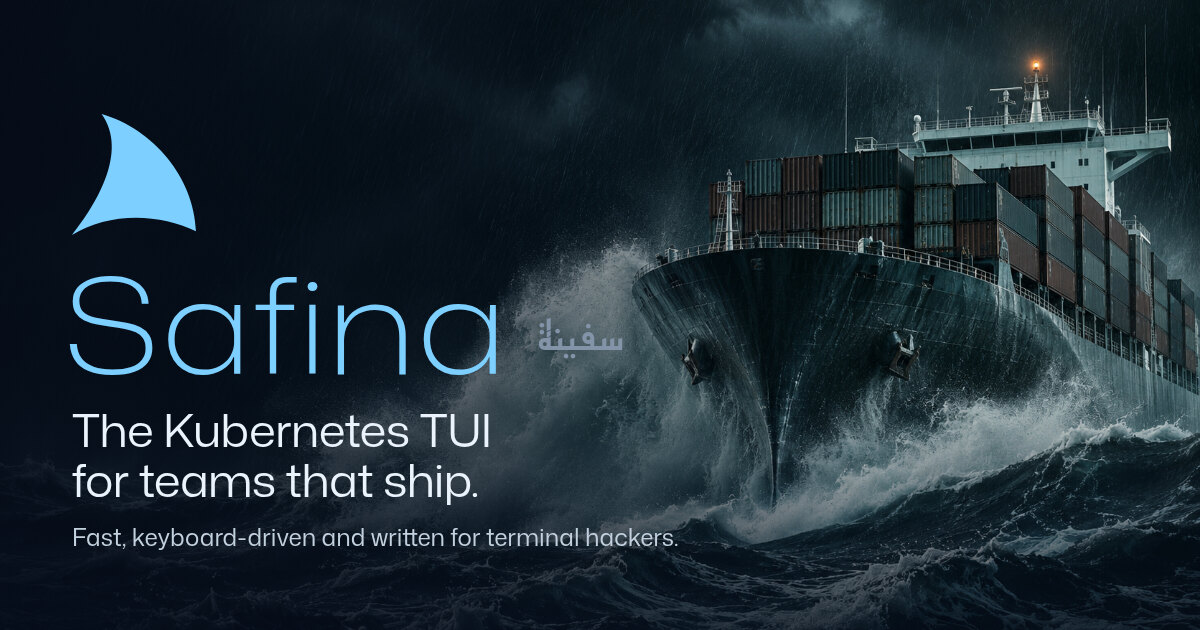
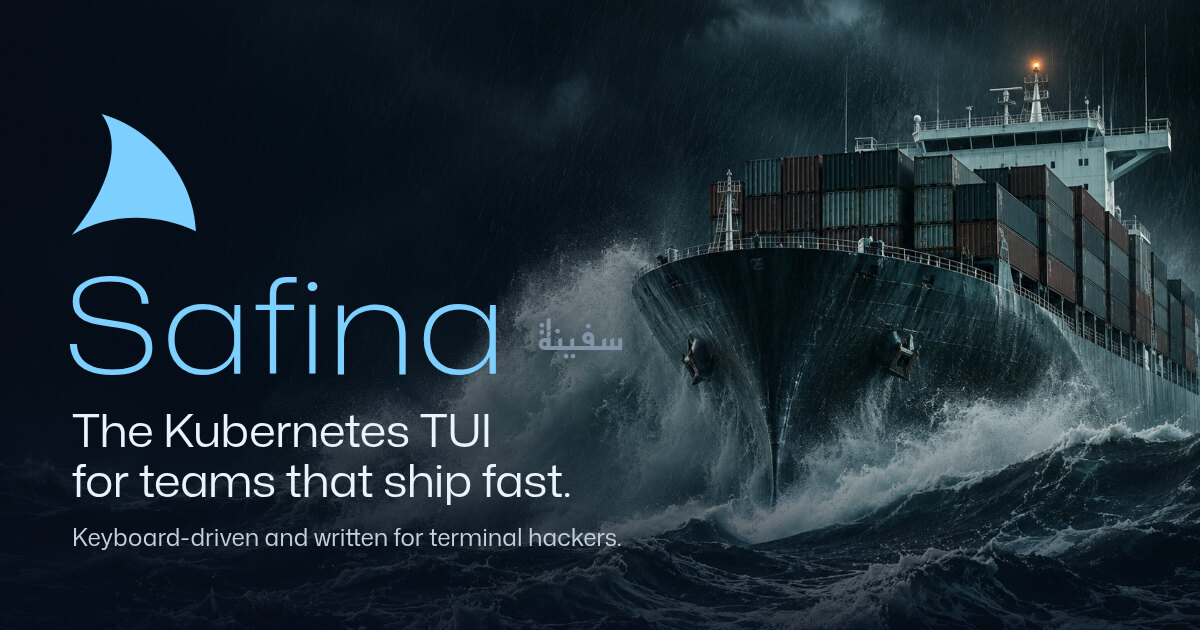
feat(site): lead with speed, and measure safina against k9s
- The tagline becomes "The Kubernetes TUI for teams that ship fast."
  (the user's call) everywhere it stands: the hero, title, description,
  social card and its alt, the app's welcome screen, and the docs that
  pin it.
- The hero's lede leads with the numbers: a keypress answered in about
  20 ms, 500 pods within a second of launch, from watch caches instead
  of polling. The figure links to Compare.
- Compare opens on measured rows from make versus (safina v0.3.0 vs k9s
  v0.51.0, 10 rounds): launch, cursor, filter, view switch, YAML, logs,
  idle CPU, memory and idle API requests, with the ties and k9s's win
  kept in and the run named in the note. One table, two groups, the
  safina band unbroken.
- install.sh installs the macOS binaries (macOS 13 or later), and the
  install section lists them with the notarization caveat in place of
  "macOS binaries come later".

Changed region(s): [[0.0617, 0.8444, 0.555, 0.8746], [0.4008, 0.7238, 0.4625, 0.7841]]

diff --git a/site/src/data/release.ts b/site/src/data/release.ts
@@ -23,12 +23,14 @@ export const release = {
    *  to show only the license, platforms and release notes. */
   version: "0.3.0",
   repo: "https://github.com/YunusAndreasson/safina",
-  /** Linux only, for now: install.sh refuses anything else with the from-source line. */
+  /** Linux and macOS: install.sh refuses anything else with the from-source line. */
   install: "curl -fsSL https://safina.run/install.sh | sh",
   fromSource: "git clone https://github.com/YunusAndreasson/safina && cd safina && make install",
   assets: [
-    { os: "linux", arch: "amd64", label: "Linux, x86-64", file: "safina_linux_amd64.tar.gz" },
-    { os: "linux", arch: "arm64", label: "Linux, ARM64", file: "safina_linux_arm64.tar.gz" },
+    { os: "linux", arch: "amd64", label: "Linux x86-64", file: "safina_linux_amd64.tar.gz" },
+    { os: "linux", arch: "arm64", label: "Linux ARM64", file: "safina_linux_arm64.tar.gz" },
+    { os: "macos", arch: "arm64", label: "Apple silicon", file: "safina_darwin_arm64.tar.gz" },
+    { os: "macos", arch: "amd64", label: "Intel Mac", file: "safina_darwin_amd64.tar.gz" },
   ] satisfies ReleaseAsset[],
 };
 

diff --git a/site/scripts/og.html b/site/scripts/og.html
@@ -87,7 +87,7 @@
 <div class="card">
   <div class="copy">
     <div class="mark">Safina<span class="ar" lang="ar" dir="rtl">سفينة</span></div>
-    <div class="tag">The Kubernetes TUI<br />for teams that ship.</div>
-    <div class="sub">Fast, keyboard-driven and written for terminal hackers.</div>
+    <div class="tag">The Kubernetes TUI<br />for teams that ship fast.</div>
+    <div class="sub">Keyboard-driven and written for terminal hackers.</div>
   </div>
 </div>

diff --git a/internal/tui/sections/welcome.go b/internal/tui/sections/welcome.go
@@ -95,13 +95,13 @@ func WelcomeSail(t *theme.Theme, w, h int) string {
 		name = "safina"
 	}
 	lines = append(lines, center(t.NameStrong.Render(ansi.Truncate(name, w, ""))))
-	const tagline = "The Kubernetes TUI for teams that ship."
+	const tagline = "The Kubernetes TUI for teams that ship fast."
 	if w >= 22 && h-len(lines) >= 4 {
 		lines = append(lines, "")
 		if w >= len(tagline)+4 {
 			lines = append(lines, center(t.DimTxt.Render(tagline)))
 		} else {
-			lines = append(lines, center(t.DimTxt.Render("The Kubernetes TUI")), center(t.DimTxt.Render("for teams that ship.")))
+			lines = append(lines, center(t.DimTxt.Render("The Kubernetes TUI")), center(t.DimTxt.Render("for teams that ship fast.")))
 		}
 	}
 	// A slightly raised optical centre leaves breathing room below the mark.

diff --git a/internal/tui/sections/welcome_test.go b/internal/tui/sections/welcome_test.go
@@ -27,7 +27,7 @@ func TestWelcomeSailFitsPaneAndMonochrome(t *testing.T) {
 				require.Contains(t, plain, "#", "the sail remains visible without color")
 			}
 			if size[1] >= 22 {
-				require.Contains(t, strings.Join(strings.Fields(plain), " "), "The Kubernetes TUI for teams that ship.")
+				require.Contains(t, strings.Join(strings.Fields(plain), " "), "The Kubernetes TUI for teams that ship fast.")
 			}
 		})
 	}

diff --git a/site/README.md b/site/README.md
@@ -78,11 +78,12 @@ notice rather than failed.
 ## Releases
 
 A `v*` tag pushed to GitHub builds the Linux binaries (x86-64 and ARM64, on
-Ubuntu 22.04, needing glibc 2.34 or newer) and publishes them with a
-`checksums.txt` (`.github/workflows/release.yml`; run it by hand to build
-without publishing). `public/install.sh`, served at
-https://safina.run/install.sh, installs the latest one: it refuses macOS,
-musl and old glibc with the from-source line, verifies the archive's
+Ubuntu 22.04, needing glibc 2.34 or newer) and the macOS ones (Apple silicon
+and Intel, for macOS 13 or newer, ad-hoc signed and not notarized) and
+publishes them with a `checksums.txt` (`.github/workflows/release.yml`; run
+it by hand to build without publishing). `public/install.sh`, served at
+https://safina.run/install.sh, installs the latest one: it refuses other
+systems, musl, old glibc and macOS before 13 with the from-source line, verifies the archive's
 SHA-256 and writes only `~/.local/bin/safina`. The archive names are shared
 by the workflow, the script and `src/data/release.ts`; change them together.
 
@@ -248,12 +249,14 @@ pyftsubset node_modules/@fontsource-variable/reem-kufi/files/reem-kufi-arabic-wg
 
 ## Voice
 
-The tagline is **"The Kubernetes TUI for teams that ship."** It is
+The tagline is **"The Kubernetes TUI for teams that ship fast."** It is
 the product's identity, not a stock phrase: safina is Arabic for ship, so
 "teams that ship" reads both ways, the team that ships software and the
 crew of a ship. "TUI" replaced "console" in Nov 2026 (the user's call): the
 site speaks to engineers who know the genre, "TUI" can't be read as a web
-console, and "TUI for teams" alliterates. "Terminal" stays in the meta
+console, and "TUI for teams" alliterates. "Fast" joined it later in Nov
+2026 (the user's call again): speed is the claim safina leads with, and the
+lede and Compare's measured rows give it numbers. "Terminal" stays in the meta
 description ("A terminal UI for Kubernetes") and on the social card. It stands in the hero headline, the page title, the meta
 description, the social card (`scripts/og.html`, then `scripts/og.sh`) and
 its alt text (`Base.astro`). Never reword it, swap it for another line, or
@@ -348,8 +351,13 @@ what reaches the model, where files live. Recheck them when that code changes.
 The nav calls it FAQ, the eyebrow over its title; each question is an h3
 in the title voice, so a scan down the list reads the questions alone.
 
-Safina and k9s (`Compare.astro`) is a table of checks and dashes, no words
-in the cells: nobody reads a comparison, they scan it. One sentence under
+Safina and k9s (`Compare.astro`) is one table in two groups, no words in
+the cells: nobody reads a comparison, they scan it. Measured comes first,
+with figures from `cmd/safina-versus` (`make versus`): medians, the side
+that's ahead beyond the noise in the brightest ink, ties and k9s's wins
+(memory, idle API requests) kept in, and the run named in the note (versions,
+cluster, machine). Re-run it on a release and change every row with the
+note; never round a tie into a win. Features follows, checks and dashes. One sentence under
 its title, the dated note below the table. Every k9s cell is checked against k9s's own README, k9scli.io
 and its latest release, dated in the section's note (v0.51.0, June 2026);
 recheck it when k9s ships, and keep k9s's wins in the table (read-only
@@ -363,8 +371,9 @@ Quieter marks: the Logbook's export running "from the *bismillah* before
 your first look to the *alhamdulillah* when the pods are ready" (said on
 starting something and on its end, and the verse at the top of the page
 source begins with the same bismillah; the sentence reads as start to
-finish to anyone who doesn't know the words), "in sha Allah" on the release
-promise, the Hijri year in the footer, the 404 ("Overboard", and the belly of a whale), and the words Nuh
+finish to anyone who doesn't know the words), "in sha Allah" on a promise
+not yet kept (none on the page since v0.3.0 shipped the macOS binaries it
+was on), the Hijri year in the footer, the 404 ("Overboard", and the belly of a whale), and the words Nuh
 spoke boarding the ark at the top of the page source (`Base.astro`).
 
 ## Layout

diff --git a/site/AGENTS.md b/site/AGENTS.md
@@ -84,9 +84,9 @@ cue. A visitor should feel it and not be able to point at it.
     stays black.
 13. **Fixed running time.** Measured by `scripts/frames.mjs` with every
     section laid out (Nov 2026, with the recordings' keys, the Metrics
-    stop, the hero without buttons and the 160-column shoot: 9.7 screens at
-    1440×900 with Install at 8.6; 12.0 on a 390×844 phone; 9.6 and 12.2 in
-    Gecko). Figures before Nov 2026 under-counted: off-screen features were
+    stop, the hero without buttons, the 160-column shoot and Compare's
+    measured rows, the user's call: 10.6 screens at 1440×900 with Install at
+    9.5; 13.3 on a 390×844 phone; 10.4 and 13.5 in Gecko). Figures before Nov 2026 under-counted: off-screen features were
     measured at their 900px placeholder. A new section costs a cut or a merge
     somewhere else.
 14. **Don't copy the mix.** Nolan lets the score bury the dialogue. Here words
@@ -150,9 +150,9 @@ layout signatures or assets.
 | What the best of them do | Here |
 | --- | --- |
 | Say what it is, for whom, with the real product on the first screen at 1440×900 and 390×844 | Yes: tagline, lede, the window's peek (`--peek`). Keep it. |
-| One obvious next step | Get safina, the bar's one filled button, in place from the first frame (the hero has none; on wide screens it ends on the install line itself; the nav's words follow Jakob's law, README §Voice). Since v0.1.0 a one-line install on Linux (`public/install.sh`, README §Releases). Still to come: macOS binaries, and a package manager, which also flips a k9s row in Compare |
+| One obvious next step | Get safina, the bar's one filled button, in place from the first frame (the hero has none; on wide screens it ends on the install line itself; the nav's words follow Jakob's law, README §Voice). A one-line install on Linux (since v0.1.0) and macOS (since v0.3.0) (`public/install.sh`, README §Releases). Still to come: a package manager, which also flips a k9s row in Compare |
 | Let you try the product | The Deep dive, the keyboard tour |
-| Proof that checks out | Today Compare and Fair questions, both checked against code. The public repo, release notes and version (v0.1.0, Nov 2026). Never invented quotes, logos, user counts, stars or benchmarks |
+| Proof that checks out | Today Compare (its measured rows from `make versus`, reproducible from the repo) and Fair questions, both checked against code. The public repo, release notes and version (v0.3.0, Nov 2026). Never invented quotes, logos, user counts, stars or benchmarks |
 | Load fast | Readable with no JavaScript, CLS 0, first load about 431 KB on desktop and 203 KB on a phone (Nov 2026, Chromium). The recordings' player (about 114 KB of script, 80 KB of font and 38 KB of casts, gzipped) loads only once the visitor scrolls in or reaches for a key; the deep dive's reel starts only once its keys are on screen. Growth needs a reason the user agreed to |
 | Accessible | WCAG 2.2 AA: contrast, focus, keyboard, alt text that says what each screen shows |
 | Look current | Dated notes (k9s "as of v0.51.0") get rechecked; a changelog once there are releases |

diff --git a/AGENTS.md b/AGENTS.md
@@ -2,7 +2,7 @@
 
 ## The tagline is the identity
 
-**"The Kubernetes TUI for teams that ship."**
+**"The Kubernetes TUI for teams that ship fast."**
 
 Safina (سفينة) is Arabic for ship, so "teams that ship" reads both ways:
 the team that ships software and the crew of a ship. That double meaning is
@@ -10,7 +10,9 @@ the product's core identity. It is not a stock marketing phrase, and it is
 not "AI slop" to be cleaned up.
 
 - Never reword it, replace it with another line, or cut it. Only the user
-  changes it (they did once, in Nov 2026: "console" became "TUI").
+  changes it (twice so far, both in Nov 2026: "console" became "TUI", then
+  "ship" became "ship fast", so the line carries safina's speed, which the
+  hero's lede and the measured rows in Compare back with numbers).
 - It appears in five places on the site, and all five must agree: the hero
   headline (`site/src/components/Opening.astro`), the page title and meta
   description (`site/src/pages/index.astro`), the social card

diff --git a/README.md b/README.md
@@ -1,6 +1,6 @@
 <p align="center">
   <a href="https://safina.run">
-    <img src="site/public/og.jpg" alt="Safina's sail and name, with its Arabic name سفينة, over a container ship in a night storm: the Kubernetes TUI for teams that ship." width="760">
+    <img src="site/public/og.jpg" alt="Safina's sail and name, with its Arabic name سفينة, over a container ship in a night storm: the Kubernetes TUI for teams that ship fast." width="760">
   </a>
 </p>
 

diff --git a/site/.claude/skills/writing-site-copy/examples.md b/site/.claude/skills/writing-site-copy/examples.md
@@ -62,7 +62,7 @@ more. Cut description, never the reason a feature exists.
 
 **The tagline**
 
-> The tagline (since Nov 2026 "The Kubernetes TUI for teams that ship.") was
+> The tagline (since Nov 2026 "The Kubernetes TUI for teams that ship fast.") was
 > once swapped for "for bad nights" as a supposed stock phrase. It was
 > restored. Never touch it; only the user changes it.
 
